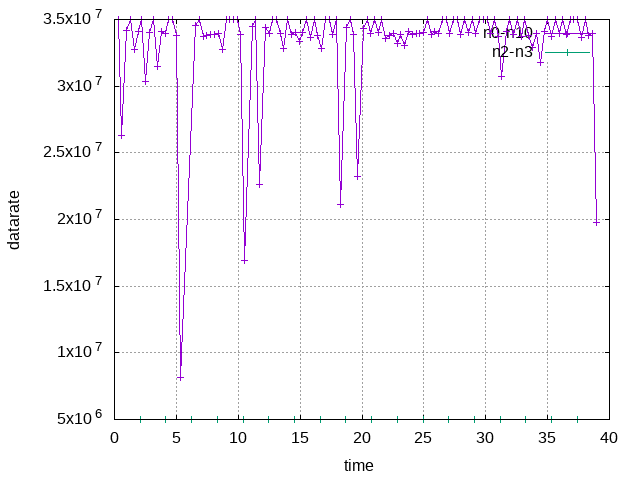
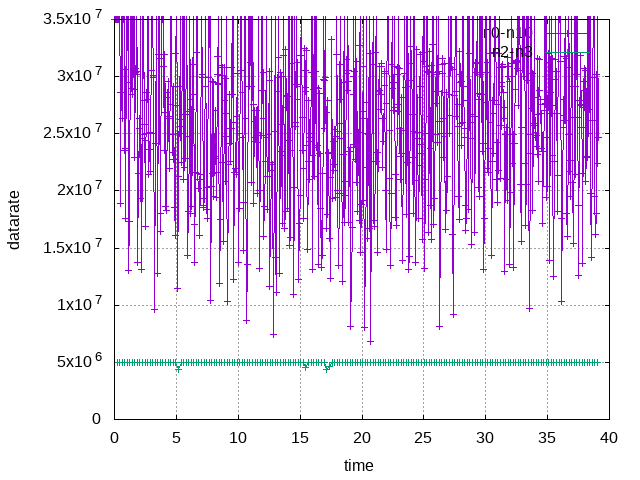
auto 完成

diff --git a/matrix/matrix.py b/matrix/matrix.py
@@ -173,10 +173,13 @@ with open(os.path.join(os.path.dirname(__file__), "link.loss"), "r") as f:
             j += 1
             i = 0
 
+with open(os.path.join(os.path.dirname(__file__), "capas_default"), "r") as f:
+    capas_d = [line.replace("\n","").replace("Mbps","") for line in f]
+    
+
 link_traf = link_traf_bytes * 8 / interval / 1000000
 link_no_loss = link_pktc + link_loss
-link_loss_rate = np.divide(link_loss, link_no_loss, out=np.zeros_like(
-    link_loss), where=link_no_loss != 0)
+link_loss_rate = np.divide(link_loss, link_no_loss, out=np.zeros_like(link_loss), where=link_no_loss != 0)
 link_loss_rate_log = np.log(1-link_loss_rate)
 
 od_flow = np.zeros((110, col), float)
@@ -196,21 +199,26 @@ for c in range(col):
 
 with open("./matrix/capas_sep", "a") as f:
     for i in range(28):
-        print(f"{link_traf[:,1][i] * (1 / math.exp(-13.1 * link_loss_rate[:, 1][i]))}Mbps", file=f)
-
+        if link_traf[:,1][i] * (1 / math.exp(-13.1 * link_loss_rate[:, 1][i])) > int(capas_d[i]):
+            print(f"{link_traf[:,1][i] * (1 / math.exp(-13.1 * link_loss_rate[:, 1][i]))}Mbps", file=f)
+        else:
+            print(f"{capas_d[i]}MBps", file=f)
+   
 with open("./matrix/capas_od", "a") as f2:
-    for c in link_latent[:,1]:
-        print(f"{c}MBps",file=f2)
+    for c,oc in zip(link_latent[:,1],capas_d):
+        if c > int(oc):
+            print(f"{c}MBps", file=f2)
+        else:
+            print(f"{oc}MBps", file=f2)
 
-# i = 1
+i = 1
 # print("odflow\n", od_flow[:, i])
 # print("odlatent\n", od_latent[:, i])
 # print("odloss\n", od_loss_rate[:, i])
 
-# print("linktraffic\n", link_traf[:, i])
-# print("linklatent\n", link_latent[:, i])
-
-# print("linklossrate\n", link_loss_rate[:, i])
+print("linktraffic\n", link_traf[:, i])
+print("linklatent\n", link_latent[:, i])
+print("linklossrate\n", link_loss_rate[:, i])
 
 # a = np.ones(110) * 5
 # b = np.dot(route, a)

diff --git a/scratch/internet2.cc b/scratch/internet2.cc
@@ -18,7 +18,7 @@
 
 #define PACKET_SIZE 1300 //bytes 分割・統合されないサイズにする
 #define SEGMENT_SIZE 1300 //bytes この大きさのデータがたまると送信される
-#define ONE_DATUM 1000 //パケットで1データ
+#define ONE_DATUM 100 //パケットで1データ
 #define DEFAULT_SEND_RATE "5Mbps"
 #define NUM_PACKETS 50000000
 #define END_TIME 40.1 //Seconds
@@ -410,8 +410,9 @@ main (int argc, char *argv[])
 
   // Setup traffic control queue
     TrafficControlHelper tch_lim, tch;
-    // tch.SetRootQueueDisc ("ns3::FqCoDelQueueDisc");
-    tch.SetRootQueueDisc ("ns3::PfifoFastQueueDisc", "MaxSize", StringValue ("5p"));
+    tch.SetRootQueueDisc ("ns3::FqCoDelQueueDisc");
+    // tch.SetRootQueueDisc ("ns3::PfifoFastQueueDisc", "MaxSize", StringValue ("5p"));
+    // tch.SetRootQueueDisc ("ns3::FifoQueueDisc", "MaxSize", StringValue ("5p"));
     tch.Install (d0d1);
     tch.Install (d0d3);
     tch.Install (d1d2);
@@ -627,6 +628,7 @@ main (int argc, char *argv[])
       }
   // Setup source applications end
 
+std::cout << originNode << destinationNode << std::endl;
 
   // Trace settings
   AsciiTraceHelper ascii;
